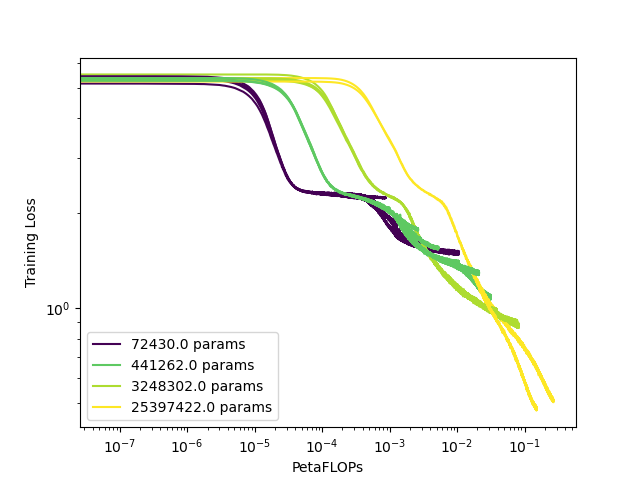
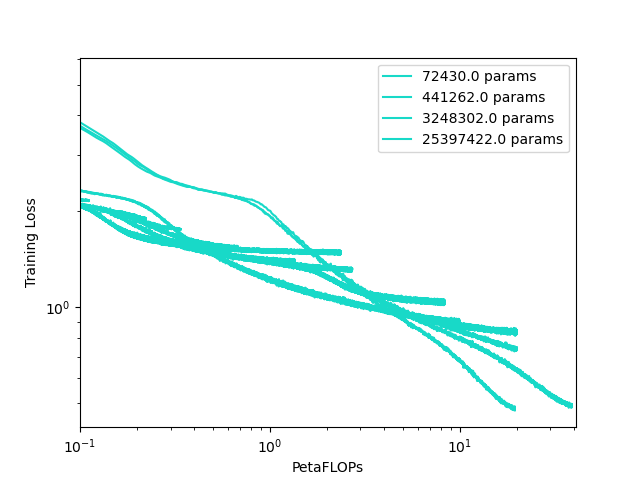
fix tokens

diff --git a/parse_tensorboard.py b/parse_tensorboard.py
@@ -43,32 +43,39 @@ def parse_tensorboard_log(event_file_path, tag, step_multiplier=1):
     # print(f"Successfully saved {len(data)} data points to {output_json_path}")
     return x, y
 
+READ_BOARD = True
 if __name__ == "__main__":
     log_dirs = glob.glob("outputs/*")
-    params_to_data = {}
     min_params = float('inf')
     max_params = 0
     params_to_data = []
     min_x = 1e-3
     cmap = plt.get_cmap("turbo")
-    for log_dir in log_dirs:
-        print(f"Processing {log_dir}")
-        with open(os.path.join(log_dir, "args.json")) as f:
-            args = json.load(f)
-            seq_len = args["seq_len"]
-            batch_size = args["batch_size"]
-        tensorboard_files = glob.glob(os.path.join(log_dir, "logs/*"))
-        assert len(tensorboard_files) == 1
-        params = parse_tensorboard_log(tensorboard_files[0], "Model/Total Parameters")[1][0]
-        step_multiplier = batch_size * 6 * params * seq_len / 1e15  # 1e15 corresponds to petaflops
-        data = parse_tensorboard_log(tensorboard_files[0], "Loss/Train_iter_smoothed", step_multiplier)
-        # params_to_data[params] = data
-        params_to_data.append((params, data))
-        min_params = min(min_params, params)
-        max_params = max(max_params, params)
-    seen_params = set()
-    log_params_max = math.log(max_params)
-    log_params_min = math.log(min_params)
+    if READ_BOARD:
+        for log_dir in log_dirs:
+            print(f"Processing {log_dir}")
+            with open(os.path.join(log_dir, "args.json")) as f:
+                args = json.load(f)
+                seq_len = args["seq_len"]
+                batch_size = args["batch_size"]
+            tensorboard_files = glob.glob(os.path.join(log_dir, "logs/*"))
+            assert len(tensorboard_files) == 1
+            params = parse_tensorboard_log(tensorboard_files[0], "Model/Total Parameters")[1][0]
+            step_multiplier = batch_size * 6 * params * seq_len / 1e15  # 1e15 corresponds to petaflops
+            data = parse_tensorboard_log(tensorboard_files[0], "Loss/Train_iter_smoothed", step_multiplier)
+            # params_to_data[params] = data
+            params_to_data.append((params, data))
+            min_params = min(min_params, params)
+            max_params = max(max_params, params)
+        seen_params = set()
+        log_params_max = math.log(max_params)
+        log_params_min = math.log(min_params)
+        with open("train_per_flops_smoothed.json", "w") as f:
+            json.dump(params_to_data, f)
+    else:
+        with open("train_per_flops_smoothed.json") as f:
+            params_to_data = json.load(f)
+
     for params, data in params_to_data:
         print(f"Plotting {params} params")
         log_params = math.log(params)
